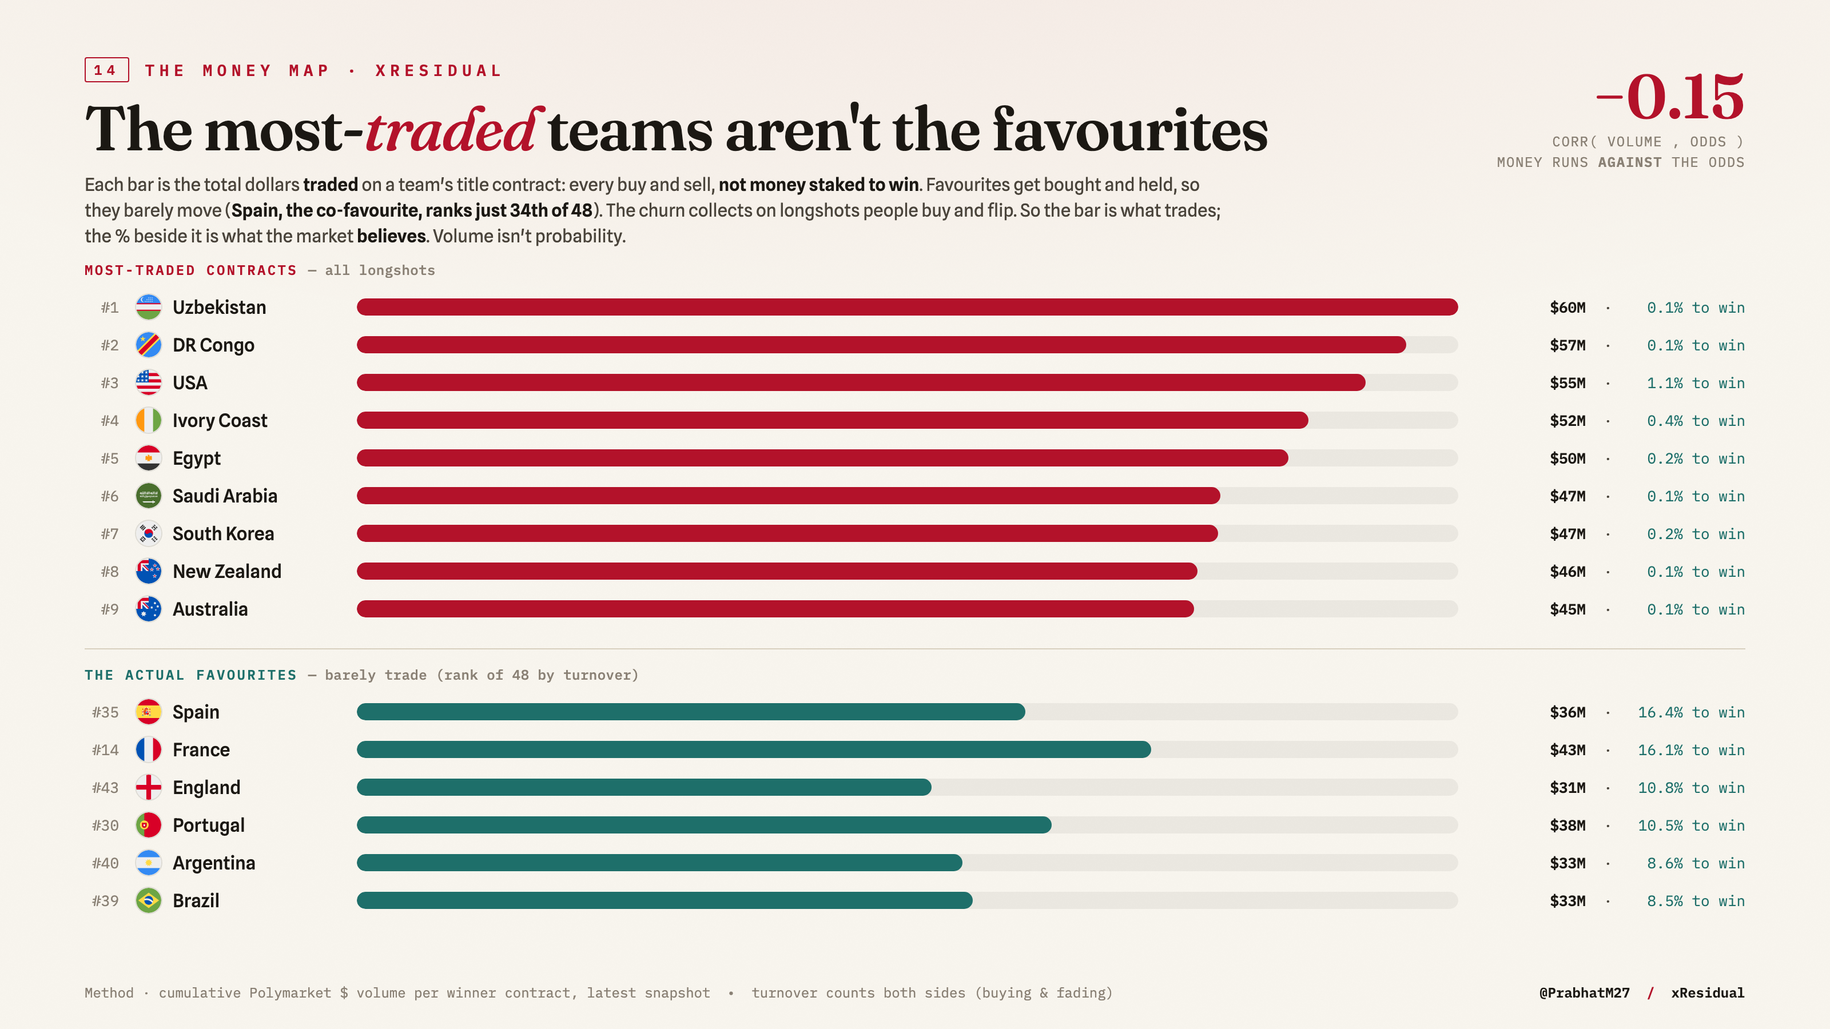
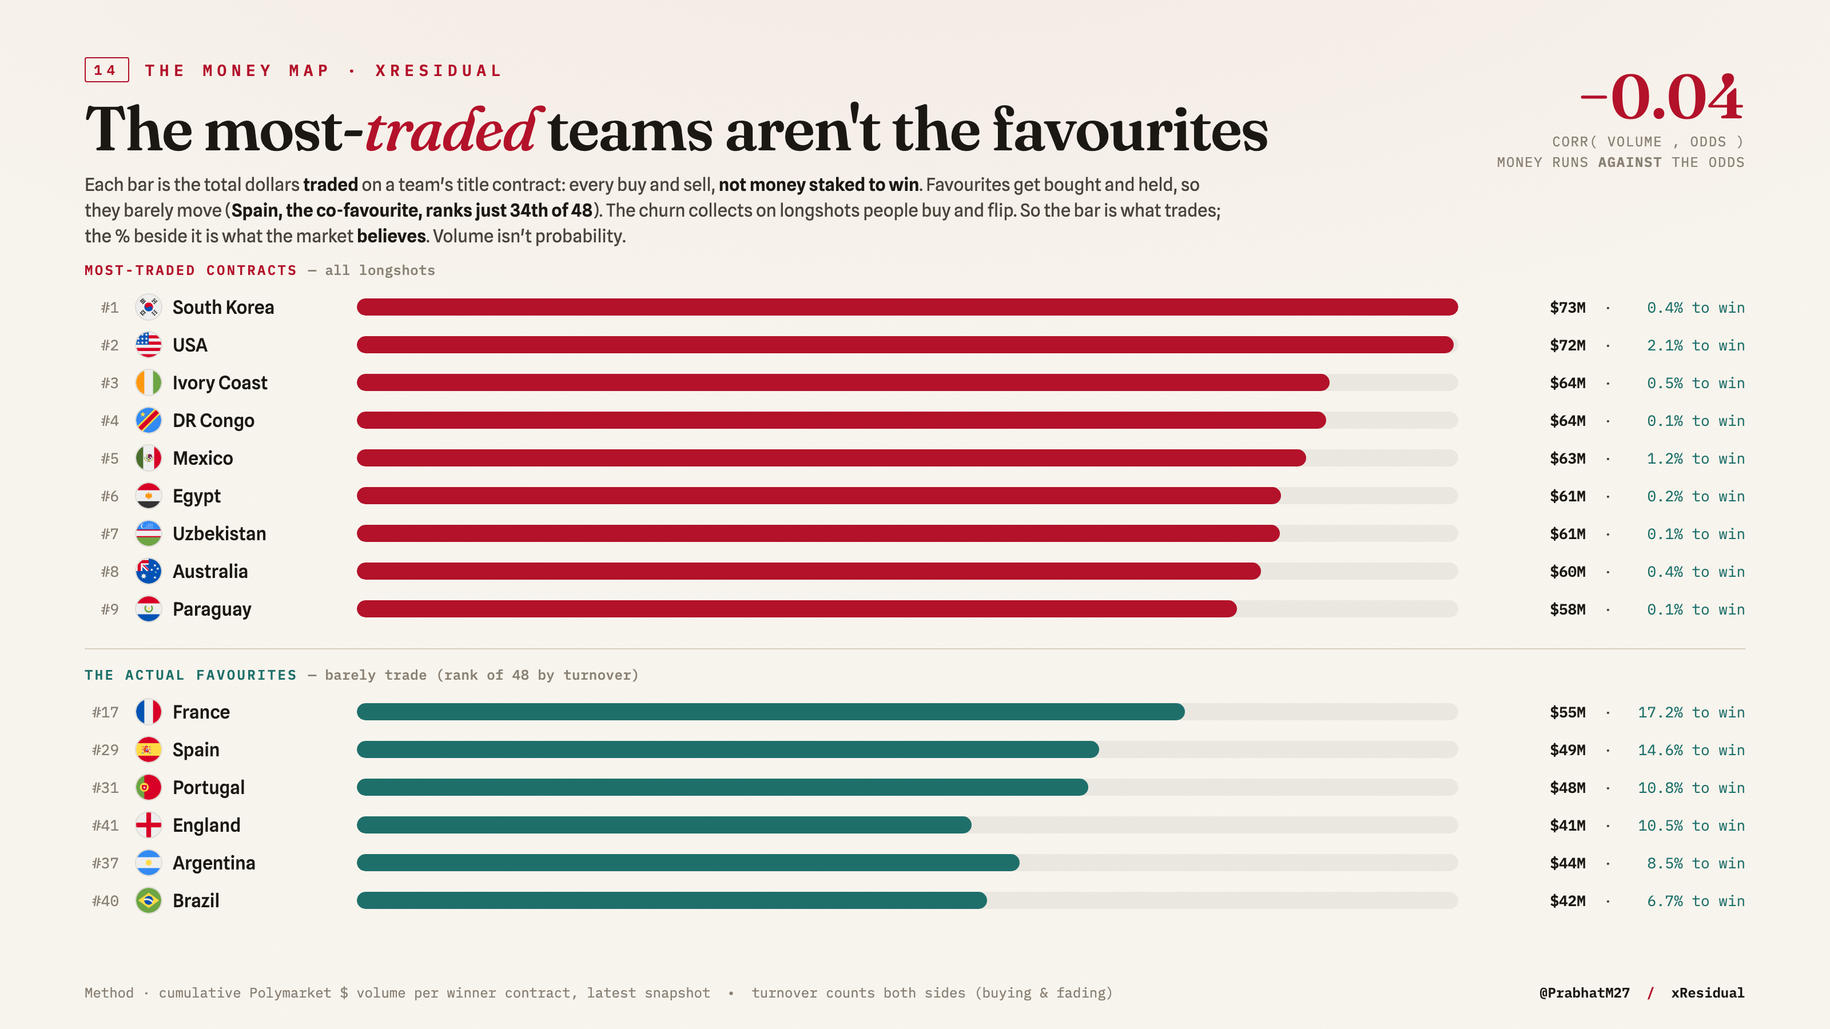
Add incremental buildup trajectory and update visuals
Run the new buildup trajectory step from the site refresh and make the card incremental. deploy/refresh_site_vm.sh now calls scripts/build_buildup_trajectory.py. scripts/build_buildup_trajectory.py was changed to compute per-day, per-team devigged probabilities, load the existing output (if present) and incrementally merge newly computed days onto the prior series so early history on the VM isn't lost by limited snapshot retention. Regenerated visualization assets: viz/market/_money.js, viz/model/_drawluck.js and related PNGs (buildup_trajectory.png, live_match.png, money_map.png, draw_luck.png).

diff --git a/viz/model/_drawluck.js b/viz/model/_drawluck.js
@@ -1,1 +1,1 @@
-window.DRAWLUCK = {"teams": [{"team": "Bosnia & Herzegovina", "iso": "ba", "color": "#1e4fc4", "group": "B", "p_adv": 74.7, "p_adv_avg": 50.1, "swing": 24.7, "impact": 12.2}, {"team": "Egypt", "iso": "eg", "color": "#a31226", "group": "G", "p_adv": 83.4, "p_adv_avg": 61.6, "swing": 21.8, "impact": 13.1}, {"team": "Iran", "iso": "ir", "color": "#0a7d4f", "group": "G", "p_adv": 58.3, "p_adv_avg": 40.6, "swing": 17.7, "impact": 13.6}, {"team": "Czech Republic", "iso": "cz", "color": "#c8102e", "group": "A", "p_adv": 78.1, "p_adv_avg": 62.6, "swing": 15.5, "impact": 11.6}, {"team": "Canada", "iso": "ca", "color": "#d4122a", "group": "B", "p_adv": 88.4, "p_adv_avg": 75.4, "swing": 13.1, "impact": 11.4}, {"team": "South Korea", "iso": "kr", "color": "#c8102e", "group": "A", "p_adv": 78.9, "p_adv_avg": 67.0, "swing": 11.9, "impact": 12.1}, {"team": "New Zealand", "iso": "nz", "color": "#3a3a3a", "group": "G", "p_adv": 20.6, "p_adv_avg": 14.1, "swing": 6.5, "impact": 8.0}, {"team": "Switzerland", "iso": "ch", "color": "#c8102e", "group": "B", "p_adv": 97.2, "p_adv_avg": 90.8, "swing": 6.4, "impact": 5.8}, {"team": "Ivory Coast", "iso": "ci", "color": "#e8731c", "group": "E", "p_adv": 87.3, "p_adv_avg": 81.8, "swing": 5.6, "impact": 9.6}, {"team": "Mexico", "iso": "mx", "color": "#1f7a4d", "group": "A", "p_adv": 88.4, "p_adv_avg": 83.4, "swing": 5.0, "impact": 8.7}, {"team": "Belgium", "iso": "be", "color": "#c8102e", "group": "G", "p_adv": 98.7, "p_adv_avg": 94.4, "swing": 4.2, "impact": 4.1}, {"team": "Algeria", "iso": "dz", "color": "#0a7d4f", "group": "J", "p_adv": 80.1, "p_adv_avg": 76.4, "swing": 3.8, "impact": 11.1}, {"team": "Uruguay", "iso": "uy", "color": "#4f9fd6", "group": "H", "p_adv": 94.4, "p_adv_avg": 90.8, "swing": 3.6, "impact": 6.6}, {"team": "Turkey", "iso": "tr", "color": "#c8102e", "group": "D", "p_adv": 90.3, "p_adv_avg": 86.8, "swing": 3.5, "impact": 6.9}, {"team": "Ecuador", "iso": "ec", "color": "#c08a00", "group": "E", "p_adv": 93.8, "p_adv_avg": 92.1, "swing": 1.7, "impact": 6.1}, {"team": "Qatar", "iso": "qa", "color": "#7a1f3a", "group": "B", "p_adv": 10.5, "p_adv_avg": 9.3, "swing": 1.2, "impact": 6.0}, {"team": "Argentina", "iso": "ar", "color": "#6cabdd", "group": "J", "p_adv": 99.1, "p_adv_avg": 98.6, "swing": 0.5, "impact": 1.7}, {"team": "Germany", "iso": "de", "color": "#2b2b2b", "group": "E", "p_adv": 98.1, "p_adv_avg": 97.7, "swing": 0.4, "impact": 2.3}, {"team": "Spain", "iso": "es", "color": "#d4122a", "group": "H", "p_adv": 99.9, "p_adv_avg": 99.5, "swing": 0.4, "impact": 0.6}, {"team": "Norway", "iso": "no", "color": "#c8102e", "group": "I", "p_adv": 92.2, "p_adv_avg": 91.8, "swing": 0.3, "impact": 4.8}, {"team": "England", "iso": "gb-eng", "color": "#0a1f5c", "group": "L", "p_adv": 99.1, "p_adv_avg": 99.0, "swing": 0.2, "impact": 1.2}, {"team": "Brazil", "iso": "br", "color": "#0a8f3c", "group": "C", "p_adv": 97.7, "p_adv_avg": 97.8, "swing": -0.1, "impact": 2.3}, {"team": "France", "iso": "fr", "color": "#1e4fc4", "group": "I", "p_adv": 98.9, "p_adv_avg": 99.3, "swing": -0.4, "impact": 0.9}, {"team": "Saudi Arabia", "iso": "sa", "color": "#0a7d3b", "group": "H", "p_adv": 20.2, "p_adv_avg": 20.8, "swing": -0.6, "impact": 9.4}, {"team": "Portugal", "iso": "pt", "color": "#7c1c2c", "group": "K", "p_adv": 97.7, "p_adv_avg": 98.4, "swing": -0.7, "impact": 1.7}, {"team": "Morocco", "iso": "ma", "color": "#a31226", "group": "C", "p_adv": 92.1, "p_adv_avg": 93.1, "swing": -1.0, "impact": 5.3}, {"team": "Sweden", "iso": "se", "color": "#c89000", "group": "F", "p_adv": 73.0, "p_adv_avg": 75.0, "swing": -1.9, "impact": 9.7}, {"team": "Croatia", "iso": "hr", "color": "#c8102e", "group": "L", "p_adv": 90.5, "p_adv_avg": 92.4, "swing": -1.9, "impact": 5.1}, {"team": "Netherlands", "iso": "nl", "color": "#e8731c", "group": "F", "p_adv": 95.3, "p_adv_avg": 97.5, "swing": -2.2, "impact": 2.4}, {"team": "Japan", "iso": "jp", "color": "#1b2a78", "group": "F", "p_adv": 79.5, "p_adv_avg": 82.0, "swing": -2.5, "impact": 9.1}, {"team": "Cape Verde", "iso": "cv", "color": "#16407a", "group": "H", "p_adv": 27.0, "p_adv_avg": 29.5, "swing": -2.5, "impact": 11.9}, {"team": "Colombia", "iso": "co", "color": "#c08a00", "group": "K", "p_adv": 88.9, "p_adv_avg": 91.9, "swing": -3.0, "impact": 6.1}, {"team": "Ghana", "iso": "gh", "color": "#0a7d3b", "group": "L", "p_adv": 47.6, "p_adv_avg": 50.7, "swing": -3.1, "impact": 12.9}, {"team": "Scotland", "iso": "gb-sct", "color": "#0a2342", "group": "C", "p_adv": 67.1, "p_adv_avg": 70.7, "swing": -3.6, "impact": 9.8}, {"team": "South Africa", "iso": "za", "color": "#0a7d3b", "group": "A", "p_adv": 27.5, "p_adv_avg": 31.4, "swing": -3.8, "impact": 11.9}, {"team": "Paraguay", "iso": "py", "color": "#b3122a", "group": "D", "p_adv": 66.3, "p_adv_avg": 70.6, "swing": -4.3, "impact": 10.9}, {"team": "Austria", "iso": "at", "color": "#c8102e", "group": "J", "p_adv": 82.1, "p_adv_avg": 86.8, "swing": -4.8, "impact": 7.2}, {"team": "Jordan", "iso": "jo", "color": "#c8102e", "group": "J", "p_adv": 7.6, "p_adv_avg": 12.8, "swing": -5.2, "impact": 6.8}, {"team": "Senegal", "iso": "sn", "color": "#0a7d3b", "group": "I", "p_adv": 84.1, "p_adv_avg": 90.2, "swing": -6.1, "impact": 6.6}, {"team": "Cura\u00e7ao", "iso": "cw", "color": "#1e4fc4", "group": "E", "p_adv": 1.7, "p_adv_avg": 9.5, "swing": -7.8, "impact": 6.2}, {"team": "DR Congo", "iso": "cd", "color": "#1e50c8", "group": "K", "p_adv": 46.4, "p_adv_avg": 54.3, "swing": -7.9, "impact": 13.2}, {"team": "USA", "iso": "us", "color": "#0a1f5c", "group": "D", "p_adv": 73.6, "p_adv_avg": 82.0, "swing": -8.4, "impact": 9.2}, {"team": "Iraq", "iso": "iq", "color": "#0a7d4f", "group": "I", "p_adv": 2.2, "p_adv_avg": 11.1, "swing": -8.9, "impact": 6.1}, {"team": "Uzbekistan", "iso": "uz", "color": "#1e50c8", "group": "K", "p_adv": 27.6, "p_adv_avg": 37.4, "swing": -9.8, "impact": 11.9}, {"team": "Panama", "iso": "pa", "color": "#b3122a", "group": "L", "p_adv": 19.0, "p_adv_avg": 29.4, "swing": -10.4, "impact": 10.6}, {"team": "Haiti", "iso": "ht", "color": "#1e50c8", "group": "C", "p_adv": 10.8, "p_adv_avg": 22.1, "swing": -11.3, "impact": 10.1}, {"team": "Australia", "iso": "au", "color": "#0a7d3b", "group": "D", "p_adv": 41.6, "p_adv_avg": 55.5, "swing": -13.8, "impact": 13.6}, {"team": "Tunisia", "iso": "tn", "color": "#a31226", "group": "F", "p_adv": 22.4, "p_adv_avg": 44.3, "swing": -21.9, "impact": 13.3}], "n_draws": 1500, "method": "legal-redraw"};
+window.DRAWLUCK = {"teams": [{"team": "Bosnia & Herzegovina", "iso": "ba", "color": "#1e4fc4", "group": "B", "p_adv": 73.8, "p_adv_avg": 49.5, "swing": 24.4, "impact": 12.0}, {"team": "Egypt", "iso": "eg", "color": "#a31226", "group": "G", "p_adv": 84.0, "p_adv_avg": 62.7, "swing": 21.3, "impact": 12.6}, {"team": "Iran", "iso": "ir", "color": "#0a7d4f", "group": "G", "p_adv": 58.4, "p_adv_avg": 40.6, "swing": 17.8, "impact": 13.3}, {"team": "Czech Republic", "iso": "cz", "color": "#c8102e", "group": "A", "p_adv": 77.7, "p_adv_avg": 62.4, "swing": 15.3, "impact": 12.0}, {"team": "Canada", "iso": "ca", "color": "#d4122a", "group": "B", "p_adv": 87.6, "p_adv_avg": 74.7, "swing": 12.8, "impact": 10.9}, {"team": "South Korea", "iso": "kr", "color": "#c8102e", "group": "A", "p_adv": 78.7, "p_adv_avg": 67.2, "swing": 11.5, "impact": 12.4}, {"team": "New Zealand", "iso": "nz", "color": "#3a3a3a", "group": "G", "p_adv": 20.7, "p_adv_avg": 14.1, "swing": 6.7, "impact": 7.9}, {"team": "Switzerland", "iso": "ch", "color": "#c8102e", "group": "B", "p_adv": 96.5, "p_adv_avg": 89.8, "swing": 6.6, "impact": 5.8}, {"team": "Ivory Coast", "iso": "ci", "color": "#e8731c", "group": "E", "p_adv": 89.7, "p_adv_avg": 83.4, "swing": 6.3, "impact": 8.7}, {"team": "Mexico", "iso": "mx", "color": "#1f7a4d", "group": "A", "p_adv": 88.4, "p_adv_avg": 82.8, "swing": 5.6, "impact": 8.9}, {"team": "Belgium", "iso": "be", "color": "#c8102e", "group": "G", "p_adv": 98.4, "p_adv_avg": 94.0, "swing": 4.4, "impact": 4.6}, {"team": "Uruguay", "iso": "uy", "color": "#4f9fd6", "group": "H", "p_adv": 93.3, "p_adv_avg": 89.6, "swing": 3.7, "impact": 7.2}, {"team": "Turkey", "iso": "tr", "color": "#c8102e", "group": "D", "p_adv": 86.8, "p_adv_avg": 83.9, "swing": 2.9, "impact": 7.9}, {"team": "Algeria", "iso": "dz", "color": "#0a7d4f", "group": "J", "p_adv": 79.4, "p_adv_avg": 77.0, "swing": 2.4, "impact": 10.4}, {"team": "Qatar", "iso": "qa", "color": "#7a1f3a", "group": "B", "p_adv": 12.3, "p_adv_avg": 10.1, "swing": 2.1, "impact": 6.2}, {"team": "Ecuador", "iso": "ec", "color": "#c08a00", "group": "E", "p_adv": 91.7, "p_adv_avg": 90.2, "swing": 1.5, "impact": 6.9}, {"team": "Norway", "iso": "no", "color": "#c8102e", "group": "I", "p_adv": 91.6, "p_adv_avg": 91.0, "swing": 0.7, "impact": 5.1}, {"team": "Spain", "iso": "es", "color": "#d4122a", "group": "H", "p_adv": 99.9, "p_adv_avg": 99.4, "swing": 0.5, "impact": 0.8}, {"team": "Argentina", "iso": "ar", "color": "#6cabdd", "group": "J", "p_adv": 99.1, "p_adv_avg": 98.5, "swing": 0.5, "impact": 1.8}, {"team": "Germany", "iso": "de", "color": "#2b2b2b", "group": "E", "p_adv": 98.1, "p_adv_avg": 97.7, "swing": 0.4, "impact": 2.2}, {"team": "Sweden", "iso": "se", "color": "#c89000", "group": "F", "p_adv": 77.7, "p_adv_avg": 77.5, "swing": 0.3, "impact": 9.4}, {"team": "England", "iso": "gb-eng", "color": "#0a1f5c", "group": "L", "p_adv": 99.2, "p_adv_avg": 98.9, "swing": 0.3, "impact": 1.3}, {"team": "Brazil", "iso": "br", "color": "#0a8f3c", "group": "C", "p_adv": 97.4, "p_adv_avg": 97.5, "swing": -0.1, "impact": 2.7}, {"team": "Morocco", "iso": "ma", "color": "#a31226", "group": "C", "p_adv": 92.4, "p_adv_avg": 92.7, "swing": -0.3, "impact": 5.7}, {"team": "France", "iso": "fr", "color": "#1e4fc4", "group": "I", "p_adv": 98.8, "p_adv_avg": 99.3, "swing": -0.4, "impact": 0.8}, {"team": "Portugal", "iso": "pt", "color": "#7c1c2c", "group": "K", "p_adv": 97.4, "p_adv_avg": 98.3, "swing": -0.8, "impact": 1.9}, {"team": "Saudi Arabia", "iso": "sa", "color": "#0a7d3b", "group": "H", "p_adv": 21.2, "p_adv_avg": 22.3, "swing": -1.1, "impact": 9.7}, {"team": "Netherlands", "iso": "nl", "color": "#e8731c", "group": "F", "p_adv": 95.2, "p_adv_avg": 97.3, "swing": -2.2, "impact": 2.4}, {"team": "Japan", "iso": "jp", "color": "#1b2a78", "group": "F", "p_adv": 79.9, "p_adv_avg": 82.2, "swing": -2.3, "impact": 9.1}, {"team": "Cape Verde", "iso": "cv", "color": "#16407a", "group": "H", "p_adv": 28.6, "p_adv_avg": 30.9, "swing": -2.3, "impact": 11.4}, {"team": "Croatia", "iso": "hr", "color": "#c8102e", "group": "L", "p_adv": 90.1, "p_adv_avg": 92.5, "swing": -2.4, "impact": 4.8}, {"team": "Colombia", "iso": "co", "color": "#c08a00", "group": "K", "p_adv": 88.6, "p_adv_avg": 91.5, "swing": -2.9, "impact": 6.1}, {"team": "Scotland", "iso": "gb-sct", "color": "#0a2342", "group": "C", "p_adv": 68.7, "p_adv_avg": 71.8, "swing": -3.2, "impact": 9.5}, {"team": "South Africa", "iso": "za", "color": "#0a7d3b", "group": "A", "p_adv": 27.8, "p_adv_avg": 31.1, "swing": -3.3, "impact": 12.0}, {"team": "Ghana", "iso": "gh", "color": "#0a7d3b", "group": "L", "p_adv": 46.9, "p_adv_avg": 50.7, "swing": -3.9, "impact": 12.8}, {"team": "Austria", "iso": "at", "color": "#c8102e", "group": "J", "p_adv": 81.9, "p_adv_avg": 86.3, "swing": -4.3, "impact": 7.4}, {"team": "Paraguay", "iso": "py", "color": "#b3122a", "group": "D", "p_adv": 65.6, "p_adv_avg": 70.7, "swing": -5.1, "impact": 10.7}, {"team": "Jordan", "iso": "jo", "color": "#c8102e", "group": "J", "p_adv": 7.8, "p_adv_avg": 13.4, "swing": -5.6, "impact": 7.0}, {"team": "Senegal", "iso": "sn", "color": "#0a7d3b", "group": "I", "p_adv": 83.6, "p_adv_avg": 90.1, "swing": -6.5, "impact": 6.7}, {"team": "DR Congo", "iso": "cd", "color": "#1e50c8", "group": "K", "p_adv": 46.5, "p_adv_avg": 53.7, "swing": -7.1, "impact": 12.8}, {"team": "Cura\u00e7ao", "iso": "cw", "color": "#1e4fc4", "group": "E", "p_adv": 1.5, "p_adv_avg": 9.0, "swing": -7.5, "impact": 6.0}, {"team": "USA", "iso": "us", "color": "#0a1f5c", "group": "D", "p_adv": 72.6, "p_adv_avg": 81.6, "swing": -8.9, "impact": 9.3}, {"team": "Iraq", "iso": "iq", "color": "#0a7d4f", "group": "I", "p_adv": 2.5, "p_adv_avg": 11.6, "swing": -9.1, "impact": 6.5}, {"team": "Uzbekistan", "iso": "uz", "color": "#1e50c8", "group": "K", "p_adv": 27.6, "p_adv_avg": 38.2, "swing": -10.6, "impact": 11.7}, {"team": "Panama", "iso": "pa", "color": "#b3122a", "group": "L", "p_adv": 19.3, "p_adv_avg": 30.2, "swing": -11.0, "impact": 10.4}, {"team": "Haiti", "iso": "ht", "color": "#1e50c8", "group": "C", "p_adv": 9.7, "p_adv_avg": 21.0, "swing": -11.3, "impact": 9.9}, {"team": "Australia", "iso": "au", "color": "#0a7d3b", "group": "D", "p_adv": 47.7, "p_adv_avg": 59.8, "swing": -12.1, "impact": 13.7}, {"team": "Tunisia", "iso": "tn", "color": "#a31226", "group": "F", "p_adv": 17.8, "p_adv_avg": 41.0, "swing": -23.2, "impact": 12.8}], "n_draws": 1500, "method": "legal-redraw"};

diff --git a/viz/market/_buildup.js b/viz/market/_buildup.js
@@ -1,1 +1,1 @@
-window.BUILDUP = {"dates": ["2026-05-16", "2026-05-17", "2026-05-18", "2026-05-19", "2026-05-20", "2026-05-21", "2026-05-22", "2026-05-23", "2026-05-24", "2026-05-25", "2026-05-26", "2026-05-27", "2026-05-28", "2026-05-29", "2026-05-30", "2026-05-31", "2026-06-01", "2026-06-02", "2026-06-03", "2026-06-04", "2026-06-05", "2026-06-06", "2026-06-07", "2026-06-08", "2026-06-09", "2026-06-10"], "series": {"Spain": [15.53, 15.54, 15.11, 15.33, 15.41, 15.48, 15.72, 16.22, 16.33, 16.23, 16.09, 16.07, 16.09, 15.99, 15.98, 15.87, 16.02, 15.92, 15.74, 15.56, 15.64, 15.52, 15.68, 15.61, 15.7, 16.18], "France": [16.71, 16.69, 16.74, 16.97, 17.06, 16.91, 17.02, 17.03, 16.91, 16.76, 16.47, 16.33, 15.81, 15.75, 15.69, 15.71, 16.15, 16.21, 16.08, 15.7, 15.5, 15.47, 15.54, 15.62, 15.56, 15.37], "England": [10.52, 10.62, 10.3, 10.5, 10.54, 10.56, 10.56, 10.65, 10.66, 10.65, 10.55, 10.44, 10.49, 10.43, 10.51, 10.6, 10.5, 10.55, 10.61, 10.55, 10.48, 10.29, 10.2, 10.17, 10.15, 10.34], "Portugal": [7.72, 7.71, 7.56, 7.7, 7.73, 8.02, 8.21, 8.21, 8.52, 9.05, 9.65, 9.66, 9.31, 9.15, 9.16, 9.53, 9.47, 9.11, 9.03, 8.93, 9.18, 10.06, 9.62, 9.59, 9.95, 10.06], "Argentina": [8.41, 8.35, 7.96, 8.47, 8.5, 8.41, 8.43, 8.42, 8.43, 8.33, 8.15, 8.14, 8.18, 8.3, 8.26, 8.22, 8.34, 8.38, 8.38, 8.63, 8.69, 8.57, 8.51, 8.34, 8.41, 8.23], "Brazil": [8.86, 8.88, 8.65, 8.75, 8.75, 8.73, 8.73, 8.83, 8.81, 8.79, 8.8, 8.83, 8.72, 8.73, 8.69, 8.47, 8.2, 8.11, 8.05, 8.06, 7.87, 7.76, 7.75, 7.81, 7.98, 8.04], "Germany": [4.94, 4.88, 4.75, 4.82, 4.81, 4.82, 4.86, 4.88, 4.88, 4.88, 4.84, 4.83, 5.03, 5.06, 5.03, 5.0, 5.14, 5.3, 5.39, 5.33, 5.45, 5.52, 5.48, 5.44, 5.36, 5.17]}};
+window.BUILDUP = {"dates": ["2026-05-16", "2026-05-17", "2026-05-18", "2026-05-19", "2026-05-20", "2026-05-21", "2026-05-22", "2026-05-23", "2026-05-24", "2026-05-25", "2026-05-26", "2026-05-27", "2026-05-28", "2026-05-29", "2026-05-30", "2026-05-31", "2026-06-01", "2026-06-02", "2026-06-03", "2026-06-04", "2026-06-05", "2026-06-06", "2026-06-07", "2026-06-08", "2026-06-09", "2026-06-10", "2026-06-11", "2026-06-12", "2026-06-13", "2026-06-14", "2026-06-15", "2026-06-16"], "series": {"Spain": [15.53, 15.54, 15.11, 15.33, 15.41, 15.48, 15.72, 16.22, 16.33, 16.23, 16.09, 16.07, 16.09, 15.99, 15.98, 15.87, 16.02, 15.92, 15.74, 15.56, 15.64, 15.52, 15.68, 15.61, 15.7, 16.18, 16.2, 16.17, 15.86, 15.92, 14.44, 14.18], "France": [16.71, 16.69, 16.74, 16.97, 17.06, 16.91, 17.02, 17.03, 16.91, 16.76, 16.47, 16.33, 15.81, 15.75, 15.69, 15.71, 16.15, 16.21, 16.08, 15.7, 15.5, 15.47, 15.54, 15.62, 15.56, 15.37, 15.58, 15.82, 15.89, 15.73, 16.71, 17.02], "England": [10.52, 10.62, 10.3, 10.5, 10.54, 10.56, 10.56, 10.65, 10.66, 10.65, 10.55, 10.44, 10.49, 10.43, 10.51, 10.6, 10.5, 10.55, 10.61, 10.55, 10.48, 10.29, 10.2, 10.17, 10.15, 10.34, 10.03, 9.71, 9.57, 9.61, 10.2, 10.17], "Portugal": [7.72, 7.71, 7.56, 7.7, 7.73, 8.02, 8.21, 8.21, 8.52, 9.05, 9.65, 9.66, 9.31, 9.15, 9.16, 9.53, 9.47, 9.11, 9.03, 8.93, 9.18, 10.06, 9.62, 9.59, 9.95, 10.06, 10.27, 10.2, 10.25, 10.7, 10.83, 10.95], "Argentina": [8.41, 8.35, 7.96, 8.47, 8.5, 8.41, 8.43, 8.42, 8.43, 8.33, 8.15, 8.14, 8.18, 8.3, 8.26, 8.22, 8.34, 8.38, 8.38, 8.63, 8.69, 8.57, 8.51, 8.34, 8.41, 8.23, 8.34, 8.0, 7.99, 8.07, 8.34, 8.24], "Brazil": [8.86, 8.88, 8.65, 8.75, 8.75, 8.73, 8.73, 8.83, 8.81, 8.79, 8.8, 8.83, 8.72, 8.73, 8.69, 8.47, 8.2, 8.11, 8.05, 8.06, 7.87, 7.76, 7.75, 7.81, 7.98, 8.04, 8.2, 8.01, 7.71, 6.59, 6.49, 6.5], "Germany": [4.94, 4.88, 4.75, 4.82, 4.81, 4.82, 4.86, 4.88, 4.88, 4.88, 4.84, 4.83, 5.03, 5.06, 5.03, 5.0, 5.14, 5.3, 5.39, 5.33, 5.45, 5.52, 5.48, 5.44, 5.36, 5.17, 5.04, 5.1, 4.89, 5.78, 6.1, 6.09]}};

diff --git a/viz/market/_money.js b/viz/market/_money.js
@@ -1,1 +1,1 @@
-window.MONEY = {"teams": [{"team": "Uzbekistan", "iso": "uz", "color": "#1e50c8", "vol": 59.6, "volsh": 3.2, "prob": 0.1, "rank": 1}, {"team": "DR Congo", "iso": "cd", "color": "#1e50c8", "vol": 56.8, "volsh": 3.0, "prob": 0.1, "rank": 2}, {"team": "USA", "iso": "us", "color": "#0a1f5c", "vol": 54.6, "volsh": 2.9, "prob": 1.1, "rank": 3}, {"team": "Ivory Coast", "iso": "ci", "color": "#e8731c", "vol": 51.5, "volsh": 2.7, "prob": 0.4, "rank": 4}, {"team": "Egypt", "iso": "eg", "color": "#a31226", "vol": 50.4, "volsh": 2.7, "prob": 0.2, "rank": 5}, {"team": "Saudi Arabia", "iso": "sa", "color": "#0a7d3b", "vol": 46.7, "volsh": 2.5, "prob": 0.1, "rank": 6}, {"team": "South Korea", "iso": "kr", "color": "#c8102e", "vol": 46.6, "volsh": 2.5, "prob": 0.2, "rank": 7}, {"team": "New Zealand", "iso": "nz", "color": "#3a3a3a", "vol": 45.5, "volsh": 2.4, "prob": 0.1, "rank": 8}, {"team": "Australia", "iso": "au", "color": "#0a7d3b", "vol": 45.3, "volsh": 2.4, "prob": 0.1, "rank": 9}], "favs": [{"team": "Spain", "iso": "es", "color": "#d4122a", "vol": 36.2, "volsh": 1.9, "prob": 16.4, "rank": 35}, {"team": "France", "iso": "fr", "color": "#1e4fc4", "vol": 43.0, "volsh": 2.3, "prob": 16.1, "rank": 14}, {"team": "England", "iso": "gb-eng", "color": "#0a1f5c", "vol": 31.1, "volsh": 1.6, "prob": 10.8, "rank": 43}, {"team": "Portugal", "iso": "pt", "color": "#7c1c2c", "vol": 37.6, "volsh": 2.0, "prob": 10.5, "rank": 30}, {"team": "Argentina", "iso": "ar", "color": "#6cabdd", "vol": 32.8, "volsh": 1.7, "prob": 8.6, "rank": 40}, {"team": "Brazil", "iso": "br", "color": "#0a8f3c", "vol": 33.3, "volsh": 1.8, "prob": 8.5, "rank": 39}], "corr": -0.15, "n": 48, "total_m": 1892};
+window.MONEY = {"teams": [{"team": "South Korea", "iso": "kr", "color": "#c8102e", "vol": 72.7, "volsh": 3.0, "prob": 0.4, "rank": 1}, {"team": "USA", "iso": "us", "color": "#0a1f5c", "vol": 72.4, "volsh": 3.0, "prob": 2.1, "rank": 2}, {"team": "Ivory Coast", "iso": "ci", "color": "#e8731c", "vol": 64.2, "volsh": 2.7, "prob": 0.5, "rank": 3}, {"team": "DR Congo", "iso": "cd", "color": "#1e50c8", "vol": 64.0, "volsh": 2.7, "prob": 0.1, "rank": 4}, {"team": "Mexico", "iso": "mx", "color": "#1f7a4d", "vol": 62.7, "volsh": 2.6, "prob": 1.2, "rank": 5}, {"team": "Egypt", "iso": "eg", "color": "#a31226", "vol": 61.0, "volsh": 2.5, "prob": 0.2, "rank": 6}, {"team": "Uzbekistan", "iso": "uz", "color": "#1e50c8", "vol": 60.9, "volsh": 2.5, "prob": 0.1, "rank": 7}, {"team": "Australia", "iso": "au", "color": "#0a7d3b", "vol": 59.7, "volsh": 2.5, "prob": 0.4, "rank": 8}, {"team": "Paraguay", "iso": "py", "color": "#b3122a", "vol": 58.1, "volsh": 2.4, "prob": 0.1, "rank": 9}], "favs": [{"team": "France", "iso": "fr", "color": "#1e4fc4", "vol": 54.7, "volsh": 2.3, "prob": 17.2, "rank": 17}, {"team": "Spain", "iso": "es", "color": "#d4122a", "vol": 49.0, "volsh": 2.0, "prob": 14.6, "rank": 29}, {"team": "Portugal", "iso": "pt", "color": "#7c1c2c", "vol": 48.3, "volsh": 2.0, "prob": 10.8, "rank": 31}, {"team": "England", "iso": "gb-eng", "color": "#0a1f5c", "vol": 40.6, "volsh": 1.7, "prob": 10.5, "rank": 41}, {"team": "Argentina", "iso": "ar", "color": "#6cabdd", "vol": 43.8, "volsh": 1.8, "prob": 8.5, "rank": 37}, {"team": "Brazil", "iso": "br", "color": "#0a8f3c", "vol": 41.6, "volsh": 1.7, "prob": 6.7, "rank": 40}], "corr": -0.04, "n": 48, "total_m": 2408};

diff --git a/scripts/build_buildup_trajectory.py b/scripts/build_buildup_trajectory.py
@@ -55,20 +55,36 @@ def main() -> int:
                 if t not in cell or ts > cell[t][0]:
                     cell[t] = (ts, float(mid))
 
-    days = sorted(latest)
     # per day, per venue: de-vig the whole field, then average across venues per team
-    series = {t: [] for t in TEAMS}
-    for day in days:
+    new_by_day: dict = {}  # day -> {team: pct or None}
+    for day in sorted(latest):
         devigged = {}  # venue -> {team: fair prob}
         for v in VENUES:
             raw = {t: mp[1] for t, mp in latest[day].get(v, {}).items()}
             s = sum(raw.values())
             if s > 0:
                 devigged[v] = {t: p / s for t, p in raw.items()}
+        row = {}
         for t in TEAMS:
             vals = [devigged[v][t] for v in VENUES if t in devigged.get(v, {})]
-            series[t].append(round(statistics.mean(vals) * 100, 2) if vals else None)
+            row[t] = round(statistics.mean(vals) * 100, 2) if vals else None
+        new_by_day[day] = row
 
+    # INCREMENTAL MERGE: the VM keeps only recent snapshots, so a full rebuild there would drop the
+    # early buildup (May onward). Read the prior series and overlay only the days we just recomputed —
+    # old days persist from the existing card, recent days refresh, new days extend. Retention-proof,
+    # so this can run on the VM daily without losing history (it just needs the seeded card present).
+    by_day: dict = {}
+    try:
+        prev = json.loads(open(OUT, encoding="utf-8").read().split("=", 1)[1].rstrip().rstrip(";\n"))
+        for i, day in enumerate(prev.get("dates", [])):
+            by_day[day] = {t: (prev["series"].get(t, []) + [None] * len(prev["dates"]))[i] for t in TEAMS}
+    except Exception:
+        pass
+    by_day.update(new_by_day)                      # recomputed days overwrite; older days persist
+
+    days = sorted(by_day)
+    series = {t: [by_day[d].get(t) for d in days] for t in TEAMS}
     payload = {"dates": days, "series": series}
     os.makedirs(os.path.dirname(OUT), exist_ok=True)
     with open(OUT, "w", encoding="utf-8") as f:
